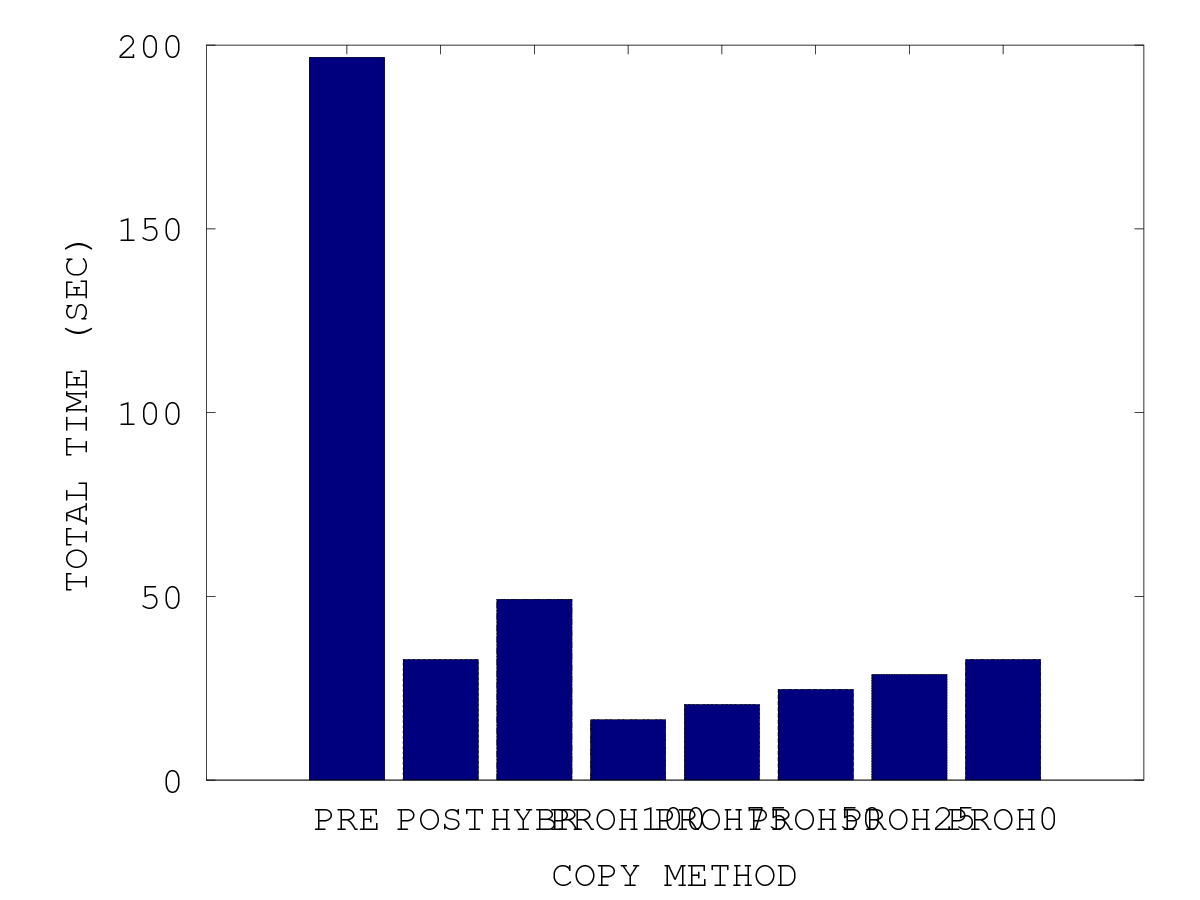
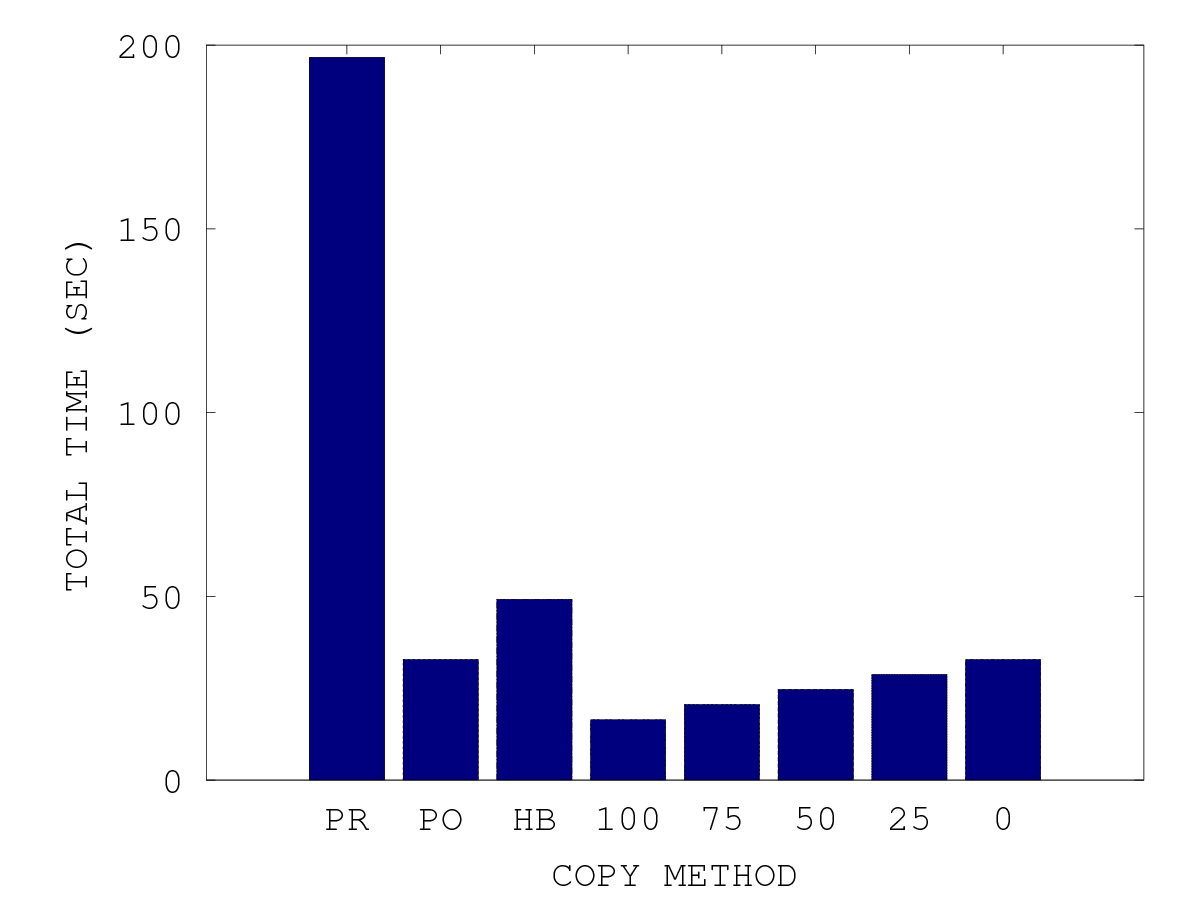
basic.m

Changed region(s): [[0.2467, 0.8711, 0.8633, 0.9333]]

diff --git a/basic.m b/basic.m
@@ -270,7 +270,8 @@ figure;
 output = strcat(prefix, ".tt");
 %output = prefix
 %x = ['PRECOPY', 'POSTCOPY', 'HYBRID', 'PRO-HYBRID'];
-x = {'PRE', 'POST', 'HYBR', 'PROH100', 'PROH75', 'PROH50', 'PROH25', 'PROH0'};
+%x = {'PRE', 'POST', 'HYBR', 'PROH100', 'PROH75', 'PROH50', 'PROH25', 'PROH0'};
+x = {'PR', 'PO', 'HB', '100', '75', '50', '25', '0'};
 %x = {'1', '2', '3', '4', '5', '6', '7', '8'};
 xinterval = 3
 %xintervals = 1:xinterval:(xinterval*length(x));
